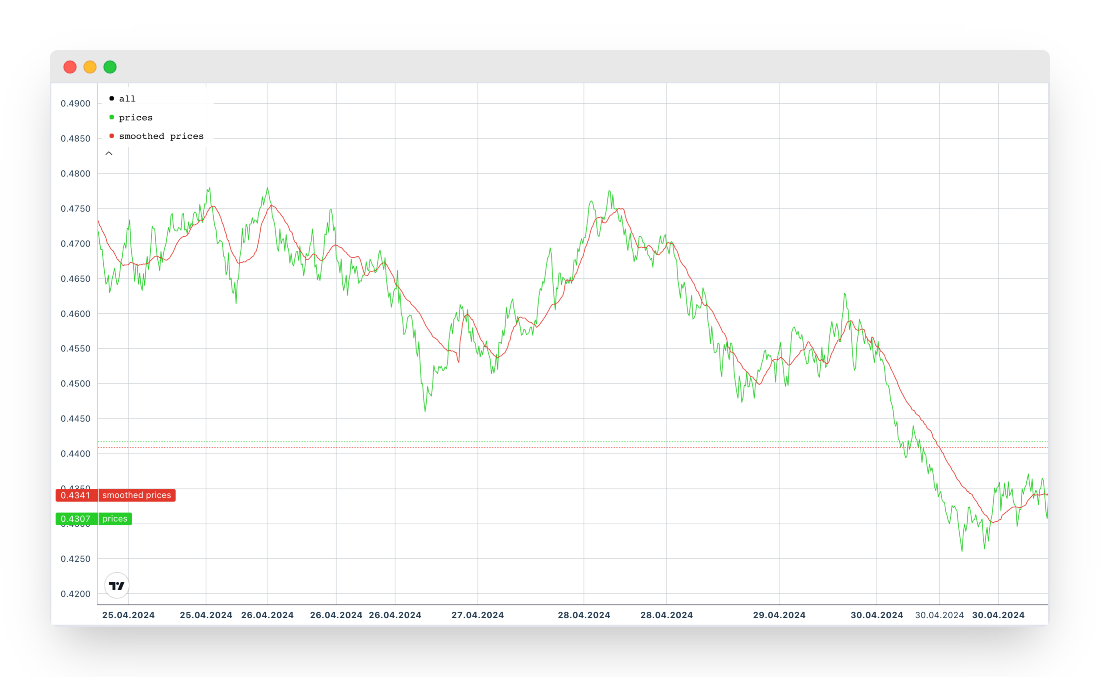
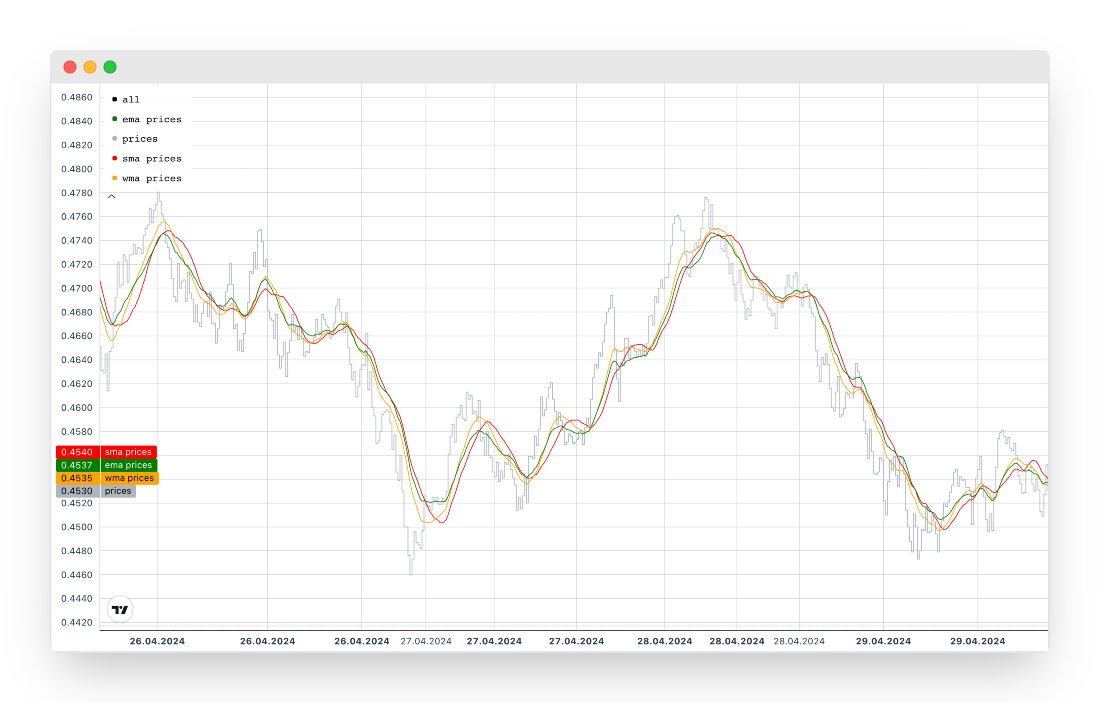
Update readme example

diff --git a/README.md b/README.md
@@ -151,12 +151,26 @@ julia> prices = ta_price_sample_data()
  ⋮
  TimeTick(2024-04-30T23:42:11.920, 0.4417)
 
-julia> smoothed_prices = ta_sma(prices, Hour(3))
+julia> sma_prices = ta_sma(prices, 20)
 7777-element TimeArray{DateTime, Float64}:
  TimeTick(2024-04-01T00:00:00.661, NaN)
  TimeTick(2024-04-01T00:05:57.481, NaN)
  ⋮
- TimeTick(2024-04-30T23:42:11.920, 0.4408)
+ TimeTick(2024-04-30T23:42:11.920, 0.4403)
+
+julia> wma_prices = ta_wma(prices, 20)
+7777-element TimeArray{DateTime, Float64}:
+ TimeTick(2024-04-01T00:00:00.661, NaN)
+ TimeTick(2024-04-01T00:05:57.481, NaN)
+ ⋮
+ TimeTick(2024-04-30T23:42:11.920, 0.4409)
+
+julia> ema_prices = ta_ema(prices, 20)
+7777-element TimeArray{DateTime, Float64}:
+ TimeTick(2024-04-01T00:00:00.661, 0.6501)
+ TimeTick(2024-04-01T00:05:57.481, 0.6501)
+ ⋮
+ TimeTick(2024-04-30T23:42:11.920, 0.4399)
 ```
 
 <div align=right>
